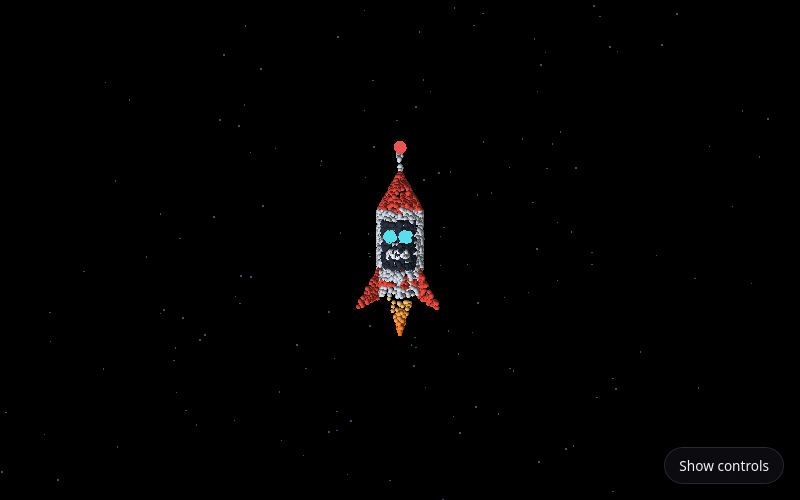
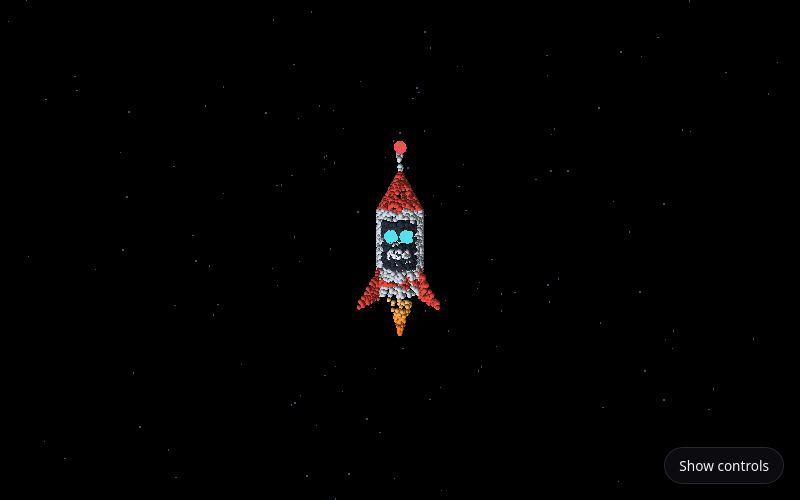
Poop rocket: blast off and launch the poop out of the exhaust
Instead of bursting apart, the rocket rumbles and lifts off (h = 11 b²),
releasing its beads from the bottom up out of the nozzle; each turns back
into a poop and flies a quadratic Bézier to its spot in the cloud, which is
where the loop starts. The on-screen equation switches to whichever formula
is active.

Changed region(s): [[0.4375, 0.36, 0.5625, 0.66]]

diff --git a/src/sketches/poopRocket.js b/src/sketches/poopRocket.js
@@ -2,30 +2,38 @@ import * as THREE from 'three';
 import { TAU, phaseOf, smooth, clamp01 } from '../lib/motion.js';
 
 // A cloud of floating poop emojis assembles into a rocket with a robot face,
-// which blinks at you, then bursts back into poop.
+// which blinks at you, rumbles, and blasts off, launching the poops back out
+// of its exhaust, which is where the loop starts again.
 //
-// Every poop i has a place in the cloud a_i (bobbing gently: a_i(t)), a place
-// on the rocket b_i, and an outward direction v_i. One equation moves them all:
+// Every poop i has a place in the cloud a_i (bobbing gently: a_i(t)) and a
+// place on the rocket b_i.
 //
-//     p_i = R_y(σ) ((1 − s) a_i(t) + s b_i) + β sin(πs) v_i
+// Assembling:  p_i = R_y(σ) ((1 − s) a_i(t) + s b_i),  σ = 2 sin(πs)
+//   s blends cloud → rocket and σ swirls them in; near s = 1 each sprite turns
+//   from a poop into a coloured bead of the rocket.
 //
-// s blends cloud → rocket. While assembling, σ = 2 sin(πs) swirls the poops
-// in about the vertical axis; while bursting apart, β lifts the sin(πs) term
-// so they overshoot outward on the way back to the cloud. Both extra terms
-// are zero at s = 0 and s = 1, so the loop joins up. Near s = 1 each sprite
-// turns from a poop into a coloured bead of the rocket.
+// Blast-off (progress b: 0 → 1): the rocket rises h = 11 b². Bead i leaves
+// at b = 0.7 r_i (r_i: 0 at the bottom, 1 at the top, so the rocket empties
+// upward), from the nozzle n_i = (0, −1.9 + h(0.7 r_i), 0), and flies a
+// quadratic Bézier to its cloud spot:
+//     p_i = (1 − u)² n_i + 2u(1 − u) c_i + u² a_i(t),  u_i = clamp((b − 0.7 r_i) / 0.3)
+// with c_i below and to the side of the nozzle, so the poops shoot out
+// downward and fan out. Every u_i reaches 1 at b = 1: all poop is back in the
+// cloud, exactly where the loop begins.
 //
-// Loop (period 16 s): 0 – .25 floating · .25 – .5 assembling (s: 0 → 1)
-//   .5 – .8 beep boop (blinks twice) · .8 – 1 blowing up (s: 1 → 0)
+// Loop (period 18 s): 0 – .2 just vibing · .2 – .45 assembling
+//   .45 – .62 beep boop (blinks twice, then rumbles) · .62 – 1 blast off!
 //
 // Both shapes are sorted by height before pairing, so the bottom of the cloud
-// becomes the flame and the top becomes the antenna.
+// becomes the flame (the first poops out) and the top becomes the antenna.
 
-const PERIOD = 16;
-const ASSEMBLE = 0.25;
-const ROBOT = 0.5;
-const BURST = 0.8;
-const STAGES = ['just vibing', 'assembling', 'beep boop', 'blowing up'];
+const PERIOD = 18;
+const ASSEMBLE = 0.2;
+const ROBOT = 0.45;
+const BLAST = 0.62;
+const LIFT = 11; // h = LIFT · b²
+const NOZZLE_Y = -1.9;
+const STAGES = ['just vibing', 'assembling', 'beep boop', 'blast off!'];
 
 function mulberry32(seed) {
   return () => {
@@ -220,14 +228,16 @@ function samplePoints(parts, n, r) {
 const VERT = `
   uniform float uS;
   uniform float uSigma;
-  uniform float uBeta;
+  uniform float uBlast;    // blast-off progress b (0 before it starts)
+  uniform float uShake;
   uniform float uTime;
   uniform float uScreen;   // pixels per world unit at distance 1
   uniform float uPoopSize;
   uniform float uBeadSize;
   attribute vec3 aA;
   attribute vec3 aB;
-  attribute vec3 aV;
+  attribute vec3 aSpray;   // c_i − n_i: where the exhaust flings this poop
+  attribute float aRelease; // r_i
   attribute vec3 aColor;
   attribute vec4 aWobble;  // bob frequency, bob phase, sprite spin rate, size jitter
   attribute float aPart;
@@ -243,10 +253,23 @@ const VERT = `
 
   void main() {
     vec3 a = aA + vec3(0.0, 0.15 * sin(aWobble.x * uTime + aWobble.y), 0.0);  // a_i(t)
-    vec3 P = rotY(mix(a, aB, uS), uSigma) + uBeta * sin(3.14159265 * uS) * aV;
-    if (aPart > 0.5 && aPart < 1.5) P.y -= uS * 0.07 * (0.5 + 0.5 * sin(uTime * 29.0 + aWobble.y * 9.0));
-
-    vMorph = smoothstep(0.72, 1.0, uS);  // poop → bead as it lands
+    vec3 P;
+    float age = clamp((uBlast - 0.7 * aRelease) / 0.3, 0.0, 1.0);             // u_i
+    bool released = uBlast > 0.0 && uBlast > 0.7 * aRelease;
+    if (released) {
+      // Out the exhaust: a quadratic Bézier from the nozzle to the cloud.
+      float br = 0.7 * aRelease;
+      vec3 n = vec3(0.0, ${NOZZLE_Y.toFixed(2)} + ${LIFT.toFixed(1)} * br * br, 0.0);
+      vec3 c = n + aSpray;
+      P = (1.0 - age) * (1.0 - age) * n + 2.0 * age * (1.0 - age) * c + age * age * a;
+      vMorph = 1.0 - smoothstep(0.0, 0.12, age);   // bead → poop as it leaves
+    } else {
+      // Assembling, then riding the rocket up.
+      P = rotY(mix(a, aB, uS), uSigma) + vec3(0.0, ${LIFT.toFixed(1)} * uBlast * uBlast, 0.0);
+      if (aPart > 0.5 && aPart < 1.5) P.y -= uS * 0.07 * (0.5 + 0.5 * sin(uTime * 29.0 + aWobble.y * 9.0));
+      P.x += uShake * sin(uTime * 71.0 + aB.y * 3.0);
+      vMorph = smoothstep(0.72, 1.0, uS);  // poop → bead as it lands
+    }
     vColor = aColor;
     vPart = aPart;
     vAngle = aWobble.z * uTime * (1.0 - vMorph);
@@ -287,9 +310,9 @@ const FRAG = `
 export default {
   name: 'Poop → Robot Rocket',
   description:
-    'A cloud of floating poop emojis swirls together into a rocket with a robot face, which blinks at you twice ' +
-    'and then blows back into poop. Each poop i has a place in the cloud a_i and on the rocket b_i; one equation ' +
-    'with a blend s, a swirl σ and a burst β moves all of them, and all three are shown live.',
+    'A cloud of floating poop emojis swirls together into a rocket with a robot face, which blinks at you, ' +
+    'rumbles and blasts off, launching the poop back out of its exhaust to start the loop again. The equation ' +
+    'on screen is whichever one is moving the poops right now, with its numbers live.',
   tags: ['particles', 'morph', 'emoji', 'silly'],
   category: 'Particles',
   mode: '3d',
@@ -298,31 +321,39 @@ export default {
 
   motion(t) {
     const p = phaseOf(t, PERIOD);
-    let s = 0;
-    let sigma = 0;
-    let beta = 0;
-    if (p >= ASSEMBLE && p < ROBOT) {
-      s = smooth((p - ASSEMBLE) / (ROBOT - ASSEMBLE));
-      sigma = 2 * Math.sin(Math.PI * s);
-    } else if (p >= ROBOT && p < BURST) {
-      s = 1;
-    } else if (p >= BURST) {
-      s = 1 - smooth((p - BURST) / (1 - BURST));
-      beta = 1.6;
-    }
-    const x = clamp01((p - ROBOT) / (BURST - ROBOT));
-    const blink =
-      p >= ROBOT && p < BURST ? Math.max(Math.exp(-(((x - 0.35) / 0.03) ** 2)), Math.exp(-(((x - 0.7) / 0.03) ** 2))) : 0;
-    const stage = p < ASSEMBLE ? 0 : p < ROBOT ? 1 : p < BURST ? 2 : 3;
-    return { s, sigma, beta, blink, tilt: 0.12 * Math.sin(TAU * p), stage };
+    const s = p < ASSEMBLE ? 0 : p < ROBOT ? smooth((p - ASSEMBLE) / (ROBOT - ASSEMBLE)) : 1;
+    const sigma = p >= ASSEMBLE && p < ROBOT ? 2 * Math.sin(Math.PI * s) : 0;
+    const b = p < BLAST ? 0 : (p - BLAST) / (1 - BLAST);
+    const x = clamp01((p - ROBOT) / (BLAST - ROBOT));
+    const beeping = p >= ROBOT && p < BLAST;
+    const blink = beeping ? Math.max(Math.exp(-(((x - 0.25) / 0.035) ** 2)), Math.exp(-(((x - 0.55) / 0.035) ** 2))) : 0;
+    // Rumble for the last moments before lift-off, easing off as it climbs.
+    const shake = beeping ? 0.035 * smooth((x - 0.75) / 0.25) : p >= BLAST ? 0.035 * (1 - smooth(b / 0.15)) : 0;
+    const stage = p < ASSEMBLE ? 0 : p < ROBOT ? 1 : p < BLAST ? 2 : 3;
+    return { s, sigma, b, h: LIFT * b * b, blink, shake, tilt: 0.12 * Math.sin(TAU * p), stage };
   },
 
-  latex: (p, hl, m) =>
-    '\\begin{aligned}' +
-    '\\mathbf p_i &= R_y(\\sigma)\\big((1-s)\\,\\mathbf a_i(t) + s\\,\\mathbf b_i\\big) + \\beta\\sin(\\pi s)\\,\\mathbf v_i \\\\' +
-    `s &= ${hl(m.s, 2)},\\quad \\sigma = ${hl(m.sigma, 2)},\\quad \\beta = ${hl(m.beta, 2)} \\\\` +
-    `&\\text{${STAGES[m.stage] ?? ''}}` +
-    '\\end{aligned}',
+  // Shows whichever formula is moving the poops right now.
+  latex: (p, hl, m) => {
+    const label = `&\\text{${STAGES[m.stage] ?? ''}}`;
+    if (m.stage < 3) {
+      return (
+        '\\begin{aligned}' +
+        '\\mathbf p_i &= R_y(\\sigma)\\big((1-s)\\,\\mathbf a_i(t) + s\\,\\mathbf b_i\\big),\\quad \\sigma = 2\\sin(\\pi s) \\\\' +
+        `s &= ${hl(m.s, 2)},\\quad \\sigma = ${hl(m.sigma, 2)} \\\\` +
+        label +
+        '\\end{aligned}'
+      );
+    }
+    return (
+      '\\begin{aligned}' +
+      '\\mathbf p_i &= (1-u_i)^2\\,\\mathbf n_i + 2u_i(1-u_i)\\,\\mathbf c_i + u_i^2\\,\\mathbf a_i(t) \\\\' +
+      'u_i &= \\operatorname{clamp}\\big((b - 0.7\\,r_i)/0.3\\big),\\quad h = 11\\,b^2 \\\\' +
+      `b &= ${hl(m.b, 2)},\\quad h = ${hl(m.h, 2)} \\\\` +
+      label +
+      '\\end{aligned}'
+    );
+  },
 
   params: {
     speed: { value: 1, min: 0, max: 3 },
@@ -348,7 +379,8 @@ export default {
 
     const aA = new Float32Array(n * 3);
     const aB = new Float32Array(n * 3);
-    const aV = new Float32Array(n * 3);
+    const aSpray = new Float32Array(n * 3);
+    const aRelease = new Float32Array(n);
     const aColor = new Float32Array(n * 3);
     const aWobble = new Float32Array(n * 4);
     const aPart = new Float32Array(n);
@@ -356,8 +388,11 @@ export default {
       const b = rocket[i].p;
       aA.set(cloud[i].p, i * 3);
       aB.set(b, i * 3);
-      const len = Math.hypot(b[0], b[1] - 0.3, b[2]) || 1;
-      aV.set([b[0] / len, (b[1] - 0.3) / len, b[2] / len], i * 3);
+      // Bottom beads leave first; a little jitter so it streams rather than steps.
+      aRelease[i] = clamp01(i / n + (r() - 0.5) * 0.06);
+      const ang = TAU * r();
+      const fan = 1.2 + 2.2 * r();
+      aSpray.set([Math.cos(ang) * fan, -(2 + 2.5 * r()), Math.sin(ang) * fan * 0.6], i * 3);
       aColor.set(rocket[i].c, i * 3);
       aWobble.set([0.8 + 1.4 * r(), TAU * r(), (r() - 0.5) * 2.4, 0.7 + 0.6 * r()], i * 4);
       aPart[i] = rocket[i].part;
@@ -367,7 +402,8 @@ export default {
     geometry.setAttribute('position', new THREE.BufferAttribute(aB.slice(), 3)); // for bounds only
     geometry.setAttribute('aA', new THREE.BufferAttribute(aA, 3));
     geometry.setAttribute('aB', new THREE.BufferAttribute(aB, 3));
-    geometry.setAttribute('aV', new THREE.BufferAttribute(aV, 3));
+    geometry.setAttribute('aSpray', new THREE.BufferAttribute(aSpray, 3));
+    geometry.setAttribute('aRelease', new THREE.BufferAttribute(aRelease, 1));
     geometry.setAttribute('aColor', new THREE.BufferAttribute(aColor, 3));
     geometry.setAttribute('aWobble', new THREE.BufferAttribute(aWobble, 4));
     geometry.setAttribute('aPart', new THREE.BufferAttribute(aPart, 1));
@@ -376,7 +412,8 @@ export default {
     const uniforms = {
       uS: { value: 0 },
       uSigma: { value: 0 },
-      uBeta: { value: 0 },
+      uBlast: { value: 0 },
+      uShake: { value: 0 },
       uTime: { value: 0 },
       uScreen: { value: 1 },
       uPoopSize: { value: ctx.params.poopSize },
@@ -410,7 +447,8 @@ export default {
     const u = state.uniforms;
     u.uS.value = m.s;
     u.uSigma.value = m.sigma;
-    u.uBeta.value = m.beta;
+    u.uBlast.value = m.b;
+    u.uShake.value = m.shake;
     u.uBlink.value = m.blink;
     u.uTime.value = ctx.time;
     u.uPoopSize.value = ctx.params.poopSize;
